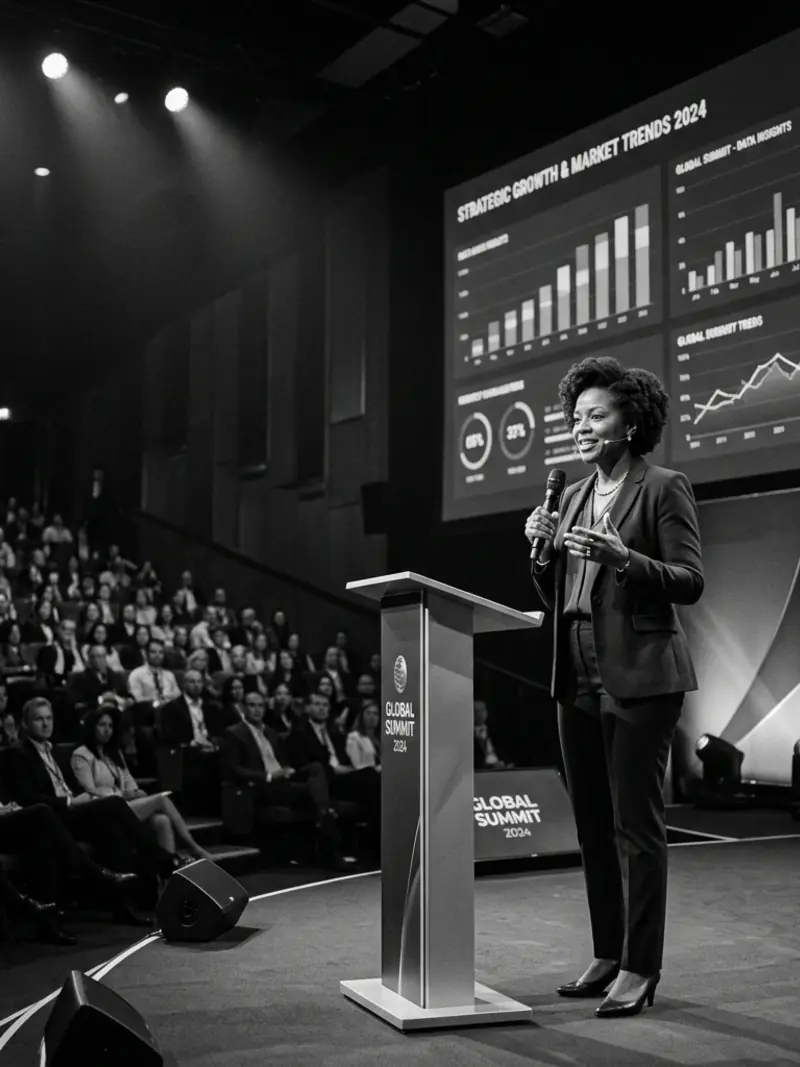
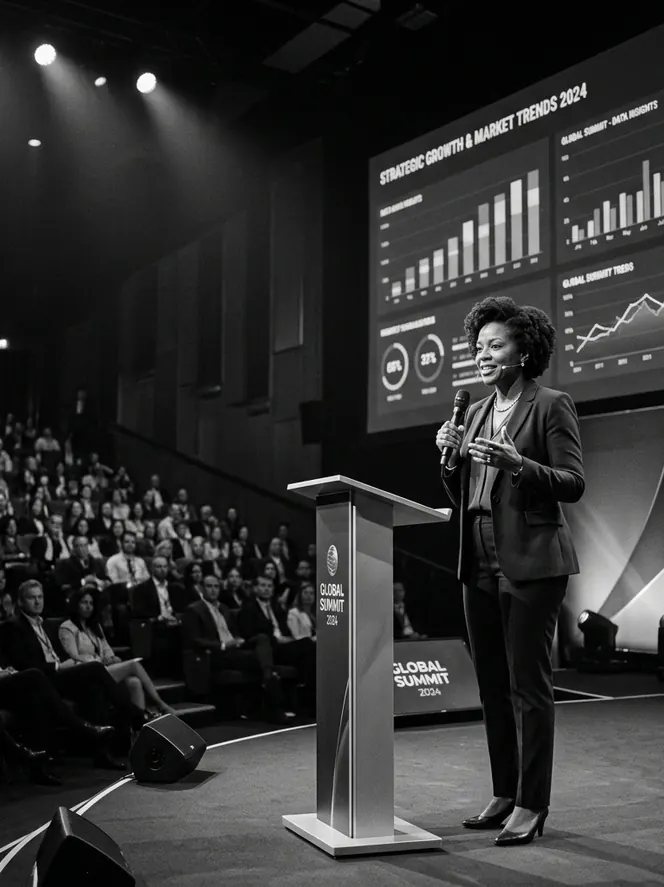
perf: update image dimensions and optimize asset loading, add CSP violation logging, and configure Livewire defaults

diff --git a/config/livewire.php b/config/livewire.php
@@ -1,0 +1,282 @@
+<?php
+
+return [
+
+    /*
+    |---------------------------------------------------------------------------
+    | Component Locations
+    |---------------------------------------------------------------------------
+    |
+    | This value sets the root directories that'll be used to resolve view-based
+    | components like single and multi-file components. The make command will
+    | use the first directory in this array to add new component files to.
+    |
+    */
+
+    'component_locations' => [
+        resource_path('views/components'),
+        resource_path('views/livewire'),
+    ],
+
+    /*
+    |---------------------------------------------------------------------------
+    | Component Namespaces
+    |---------------------------------------------------------------------------
+    |
+    | This value sets default namespaces that will be used to resolve view-based
+    | components like single-file and multi-file components. These folders'll
+    | also be referenced when creating new components via the make command.
+    |
+    */
+
+    'component_namespaces' => [
+        'layouts' => resource_path('views/layouts'),
+        'pages' => resource_path('views/pages'),
+    ],
+
+    /*
+    |---------------------------------------------------------------------------
+    | Page Layout
+    |---------------------------------------------------------------------------
+    | The view that will be used as the layout when rendering a single component as
+    | an entire page via `Route::livewire('/post/create', 'pages::create-post')`.
+    | In this case, the content of pages::create-post will render into $slot.
+    |
+    */
+
+    'component_layout' => 'layouts::app',
+
+    /*
+    |---------------------------------------------------------------------------
+    | Lazy Loading Placeholder
+    |---------------------------------------------------------------------------
+    | Livewire allows you to lazy load components that would otherwise slow down
+    | the initial page load. Every component can have a custom placeholder or
+    | you can define the default placeholder view for all components below.
+    |
+    */
+
+    'component_placeholder' => null, // Example: 'placeholders::skeleton'
+
+    /*
+    |---------------------------------------------------------------------------
+    | Make Command
+    |---------------------------------------------------------------------------
+    | This value determines the default configuration for the artisan make command
+    | You can configure the component type (sfc, mfc, class) and whether to use
+    | the high-voltage (⚡) emoji as a prefix in the sfc|mfc component names.
+    |
+    */
+
+    'make_command' => [
+        'type' => 'sfc', // Options: 'sfc', 'mfc', 'class'
+        'emoji' => true, // Options: true, false
+        'with' => [
+            'js' => false,
+            'css' => false,
+            'test' => false,
+        ],
+    ],
+
+    /*
+    |---------------------------------------------------------------------------
+    | Class Namespace
+    |---------------------------------------------------------------------------
+    |
+    | This value sets the root class namespace for Livewire component classes in
+    | your application. This value will change where component auto-discovery
+    | finds components. It's also referenced by the file creation commands.
+    |
+    */
+
+    'class_namespace' => 'App\\Livewire',
+
+    /*
+    |---------------------------------------------------------------------------
+    | Class Path
+    |---------------------------------------------------------------------------
+    |
+    | This value is used to specify the path where Livewire component class files
+    | are created when running creation commands like `artisan make:livewire`.
+    | This path is customizable to match your projects directory structure.
+    |
+    */
+
+    'class_path' => app_path('Livewire'),
+
+    /*
+    |---------------------------------------------------------------------------
+    | View Path
+    |---------------------------------------------------------------------------
+    |
+    | This value is used to specify where Livewire component Blade templates are
+    | stored when running file creation commands like `artisan make:livewire`.
+    | It is also used if you choose to omit a component's render() method.
+    |
+    */
+
+    'view_path' => resource_path('views/livewire'),
+
+    /*
+    |---------------------------------------------------------------------------
+    | Temporary File Uploads
+    |---------------------------------------------------------------------------
+    |
+    | Livewire handles file uploads by storing uploads in a temporary directory
+    | before the file is stored permanently. All file uploads are directed to
+    | a global endpoint for temporary storage. You may configure this below:
+    |
+    */
+
+    'temporary_file_upload' => [
+        'disk' => env('LIVEWIRE_TEMPORARY_FILE_UPLOAD_DISK'), // Example: 'local', 's3'             | Default: 'default'
+        'rules' => null,                                      // Example: ['file', 'mimes:png,jpg'] | Default: ['required', 'file', 'max:12288'] (12MB)
+        'directory' => null,                                  // Example: 'tmp'                     | Default: 'livewire-tmp'
+        'middleware' => null,                                 // Example: 'throttle:5,1'            | Default: 'throttle:60,1'
+        'preview_mimes' => [                                  // Supported file types for temporary pre-signed file URLs...
+            'png', 'gif', 'bmp', 'svg', 'wav', 'mp4',
+            'mov', 'avi', 'wmv', 'mp3', 'm4a',
+            'jpg', 'jpeg', 'mpga', 'webp', 'wma',
+        ],
+        'max_upload_time' => 5, // Max duration (in minutes) before an upload is invalidated...
+        'cleanup' => true, // Should cleanup temporary uploads older than 24 hrs...
+    ],
+
+    /*
+    |---------------------------------------------------------------------------
+    | Render On Redirect
+    |---------------------------------------------------------------------------
+    |
+    | This value determines if Livewire will run a component's `render()` method
+    | after a redirect has been triggered using something like `redirect(...)`
+    | Setting this to true will render the view once more before redirecting
+    |
+    */
+
+    'render_on_redirect' => false,
+
+    /*
+    |---------------------------------------------------------------------------
+    | Eloquent Model Binding
+    |---------------------------------------------------------------------------
+    |
+    | Previous versions of Livewire supported binding directly to eloquent model
+    | properties using wire:model by default. However, this behavior has been
+    | deemed too "magical" and has therefore been put under a feature flag.
+    |
+    */
+
+    'legacy_model_binding' => false,
+
+    /*
+    |---------------------------------------------------------------------------
+    | Auto-inject Frontend Assets
+    |---------------------------------------------------------------------------
+    |
+    | By default, Livewire automatically injects its JavaScript and CSS into the
+    | <head> and <body> of pages containing Livewire components. By disabling
+    | this behavior, you need to use @livewireStyles and @livewireScripts.
+    |
+    */
+
+    'inject_assets' => true,
+
+    /*
+    |---------------------------------------------------------------------------
+    | Navigate (SPA mode)
+    |---------------------------------------------------------------------------
+    |
+    | By adding `wire:navigate` to links in your Livewire application, Livewire
+    | will prevent the default link handling and instead request those pages
+    | via AJAX, creating an SPA-like effect. Configure this behavior here.
+    |
+    */
+
+    'navigate' => [
+        'show_progress_bar' => true,
+        'progress_bar_color' => '#2299dd',
+    ],
+
+    /*
+    |---------------------------------------------------------------------------
+    | HTML Morph Markers
+    |---------------------------------------------------------------------------
+    |
+    | Livewire intelligently "morphs" existing HTML into the newly rendered HTML
+    | after each update. To make this process more reliable, Livewire injects
+    | "markers" into the rendered Blade surrounding @if, @class & @foreach.
+    |
+    */
+
+    'inject_morph_markers' => true,
+
+    /*
+    |---------------------------------------------------------------------------
+    | Smart Wire Keys
+    |---------------------------------------------------------------------------
+    |
+    | Livewire uses loops and keys used within loops to generate smart keys that
+    | are applied to nested components that don't have them. This makes using
+    | nested components more reliable by ensuring that they all have keys.
+    |
+    */
+
+    'smart_wire_keys' => true,
+
+    /*
+    |---------------------------------------------------------------------------
+    | Pagination Theme
+    |---------------------------------------------------------------------------
+    |
+    | When enabling Livewire's pagination feature by using the `WithPagination`
+    | trait, Livewire will use Tailwind templates to render pagination views
+    | on the page. If you want Bootstrap CSS, you can specify: "bootstrap"
+    |
+    */
+
+    'pagination_theme' => 'tailwind',
+
+    /*
+    |---------------------------------------------------------------------------
+    | Release Token
+    |---------------------------------------------------------------------------
+    |
+    | This token is stored client-side and sent along with each request to check
+    | a users session to see if a new release has invalidated it. If there is
+    | a mismatch it will throw an error and prompt for a browser refresh.
+    |
+    */
+
+    'release_token' => 'a',
+
+    /*
+    |---------------------------------------------------------------------------
+    | CSP Safe
+    |---------------------------------------------------------------------------
+    |
+    | This config is used to determine if Livewire will use the CSP-safe version
+    | of Alpine in its bundle. This is useful for applications that are using
+    | strict Content Security Policy (CSP) to protect against XSS attacks.
+    |
+    */
+
+    'csp_safe' => true,
+
+    /*
+    |---------------------------------------------------------------------------
+    | Payload Guards
+    |---------------------------------------------------------------------------
+    |
+    | These settings protect against malicious or oversized payloads that could
+    | cause denial of service. The default values should feel reasonable for
+    | most web applications. Each can be set to null to disable the limit.
+    |
+    */
+
+    'payload' => [
+        'max_size' => 1024 * 1024,   // 1MB - maximum request payload size in bytes
+        'max_nesting_depth' => 10,   // Maximum depth of dot-notation property paths
+        'max_calls' => 50,           // Maximum method calls per request
+        'max_components' => 20,      // Maximum components per batch request
+    ],
+];

diff --git a/resources/views/livewire/public/home.blade.php b/resources/views/livewire/public/home.blade.php
@@ -37,7 +37,7 @@
                     <div class="grid grid-cols-2 gap-6">
                         <div class="space-y-6 pt-12">
                             <div class="group relative overflow-hidden rounded-2xl aspect-3/4 bg-surface-dark border border-white/5">
-                                <img src="{{ asset('images/home/hero-card-1.webp') }}" loading="eager" fetchpriority="high" width="600" height="800" class="w-full h-full object-cover grayscale transition-transform duration-700 group-hover:scale-110" alt="Live Performance Showcase" />
+                                <img src="{{ asset('images/home/hero-card-1.webp') }}" loading="eager" fetchpriority="high" width="664" height="887" class="w-full h-full object-cover grayscale transition-transform duration-700 group-hover:scale-110" alt="Live Performance Showcase" />
                                 <div class="absolute inset-0 bg-linear-to-tr from-brand-teal/80 to-brand-mint/40 mix-blend-color"></div>
                                 <div class="absolute inset-0 bg-linear-to-t from-brand-navy/90 via-transparent to-transparent"></div>
                                 <div class="absolute bottom-6 left-6">
@@ -48,7 +48,7 @@
                         </div>
                         <div class="space-y-6">
                             <div class="group relative overflow-hidden rounded-2xl aspect-3/4 bg-surface-dark border border-white/5">
-                                <img src="{{ asset('images/home/hero-card-2.webp') }}" loading="eager" fetchpriority="high" width="600" height="800" class="w-full h-full object-cover grayscale transition-transform duration-700 group-hover:scale-110" alt="Keynote Speaker Showcase" />
+                                <img src="{{ asset('images/home/hero-card-2.webp') }}" loading="eager" fetchpriority="high" width="664" height="887" class="w-full h-full object-cover grayscale transition-transform duration-700 group-hover:scale-110" alt="Keynote Speaker Showcase" />
                                 <div class="absolute inset-0 bg-linear-to-tr from-brand-teal/80 to-brand-mint/40 mix-blend-color"></div>
                                 <div class="absolute inset-0 bg-linear-to-t from-brand-navy/90 via-transparent to-transparent"></div>
                                 <div class="absolute bottom-6 left-6">
@@ -135,7 +135,7 @@
 
                 @foreach($categories as $cat)
                     <a href="/talent?category={{ $cat['slug'] }}" class="group block relative h-[450px] rounded-3xl overflow-hidden shadow-lg">
-                        <img src="{{ asset('images/home/' . $cat['img']) }}" loading="eager" fetchpriority="low" width="600" height="675" class="absolute inset-0 w-full h-full object-cover grayscale transition-transform duration-1000 group-hover:scale-110" alt="{{ $cat['name'] }}" />
+                        <img src="{{ asset('images/home/' . $cat['img']) }}" loading="eager" fetchpriority="low" width="640" height="720" class="absolute inset-0 w-full h-full object-cover grayscale transition-transform duration-1000 group-hover:scale-110" alt="{{ $cat['name'] }}" />
                         <div class="absolute inset-0 bg-linear-to-tr from-brand-teal/80 to-brand-mint/40 mix-blend-color opacity-90"></div>
                         <div class="absolute inset-0 bg-linear-to-t from-brand-navy/90 via-brand-navy/20 to-transparent"></div>
                         <div class="absolute bottom-10 left-10">

diff --git a/routes/web.php b/routes/web.php
@@ -14,6 +14,8 @@ use App\Livewire\Public\Legal\TermsOfService;
 use App\Livewire\Public\Legal\PrivacyPolicy;
 use App\Livewire\Public\Legal\BookingAgreement;
 use App\Livewire\Public\Legal\CancellationPolicy;
+use Illuminate\Http\Request;
+use Illuminate\Support\Facades\Log;
 use Illuminate\Support\Facades\Route;
 
 // Public Frontends
@@ -41,3 +43,14 @@ Route::get('/news/{slug}', ShowPost::class)->name('news.show');
 
 // Maintenance
 Route::view('/maintenance', 'maintenance')->name('maintenance');
+
+// CSP Violation Reports
+Route::post('/csp-report', function (Request $request) {
+    $report = $request->json()->all();
+    if (!empty($report)) {
+        Log::warning('CSP Violation', $report);
+    }
+    return response()->noContent();
+})->withoutMiddleware([\Illuminate\Foundation\Http\Middleware\VerifyCsrfToken::class])
+  ->middleware('throttle:30,1')
+  ->name('csp.report');

diff --git a/resources/views/components/layouts/app.blade.php b/resources/views/components/layouts/app.blade.php
@@ -25,10 +25,7 @@
     <meta name="twitter:description" content="{{ $ogDescription ?? 'A boutique talent agency specializing in securing world-class performers for corporate events, galas, and private functions.' }}">
     <meta name="twitter:image" content="{{ $ogImage ?? asset('images/logo.webp') }}">
 
-    <!-- Self-hosted fonts — eliminates render-blocking external stylesheet -->
-    <link rel="preload" href="/fonts/inter-latin-400.woff2" as="font" type="font/woff2" crossorigin>
-    <link rel="preload" href="/fonts/inter-latin-700.woff2" as="font" type="font/woff2" crossorigin>
-    <link rel="preload" href="/fonts/outfit-latin-700.woff2" as="font" type="font/woff2" crossorigin>
+    <!-- Self-hosted fonts loaded via @font-face + font-display:swap in app.css -->
     <link rel="manifest" href="/manifest.json">
 
     <script>
